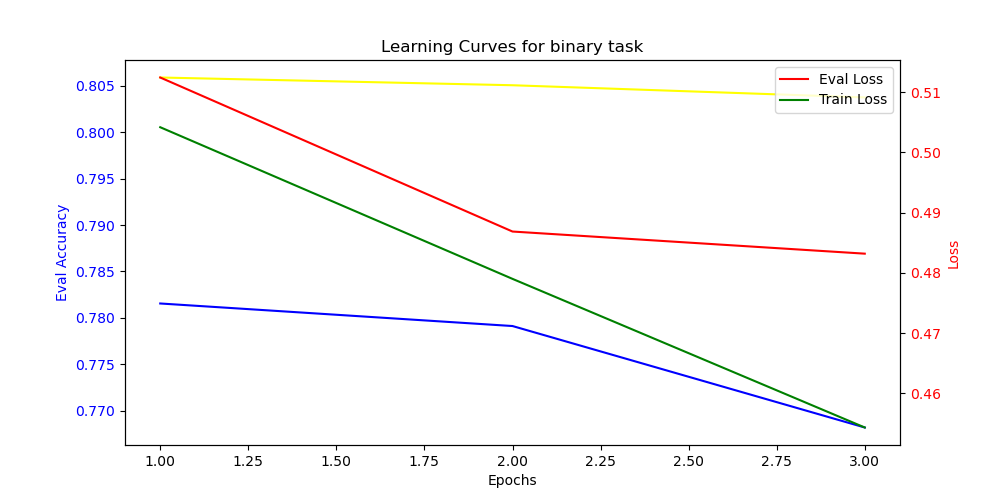
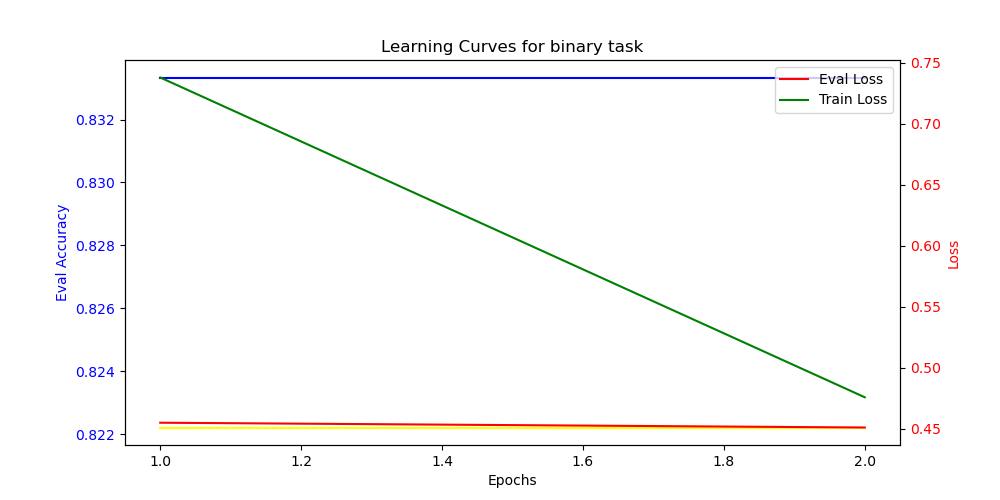
INIT commit for curriculum learning

diff --git a/src/bert_model/fine_tune_protBERT.py b/src/bert_model/fine_tune_protBERT.py
@@ -9,8 +9,9 @@ import logging
 from src.bert_model.transformer_metrics import binary_metrics, mlm_metrics
 from src.bert_model.PeptideBERTClasses.PeptideTrainer import PeptideTrainer
 from src.bert_model.fine_tune_utils import prepare_datasets, load_training_arguments, test_binary_label_bias
-from src.bert_model.PeptideBERTClasses.PeptideCallbackTrainer import LearningCurveCallback, EarlyStoppingCallback
+from src.bert_model.PeptideBERTClasses.PeptideCallbackTrainer import LearningCurveCallback, EarlyStoppingCallback, CurriculumLearningCallback
 from src.bert_model.PeptideBERTClasses.PeptideBertForBinaryClassification import PeptideBertForBinaryClassification
+from src.bert_model.PeptideBERTClasses.PeptideDataCollator import PeptideCurriculumDataCollator
 
 # this line should be included in the TrainingArguments
 # device = torch.device('cuda') if torch.cuda.is_available() else torch.device('cpu')
@@ -93,8 +94,7 @@ def fine_tune(model_class: str,
     # first.
     elif model_class == 'mlm':
         model = BertForMaskedLM.from_pretrained(training_args.model_path)
-        data_collator = DataCollatorForLanguageModeling(tokenizer=tokenizer, mlm=True,
-                                                        mlm_probability=training_args.mlm_probability)
+        data_collator = PeptideCurriculumDataCollator(tokenizer=tokenizer)
     elif model_class == 'custom':
         raise NotImplementedError("Custom task not implemented yet")
     else:
@@ -116,7 +116,8 @@ def fine_tune(model_class: str,
             # Custom Callback Class for plotting learning curves. STILL IN WORK
             LearningCurveCallback(args=training_args, task_name=model_class),
             # Custom Callback Class for early stopping.
-            EarlyStoppingCallback()
+            EarlyStoppingCallback(),
+            CurriculumLearningCallback()
         ]
     )
 
@@ -153,7 +154,7 @@ def fine_tune(model_class: str,
 
 
 if __name__ == '__main__':
-    fine_tune(model_class='binary',  # Set to 'binary' for binary classification, 'mlm' for masked language modeling
+    fine_tune(model_class='mlm',  # Set to 'binary' for binary classification, 'mlm' for masked language modeling
               config_path='peptideBERT_configs/debug_mlmBERT_config.yaml',  # Path to the config file
               show_encoding=False,  # Set to True if you want to see the encoding of the vocabulary
               )

diff --git a/src/bert_model/PeptideBERTClasses/PeptideCallbackTrainer.py b/src/bert_model/PeptideBERTClasses/PeptideCallbackTrainer.py
@@ -1,7 +1,7 @@
 import os
 import torch
 import evaluate
-from transformers import TrainerCallback, TrainerState, TrainerControl
+from transformers import TrainerCallback, TrainerState, TrainerControl, TrainingArguments
 import matplotlib.pyplot as plt
 from src.bert_model.PeptideBERTClasses.PeptideTrainingArguments import PeptideTrainingArguments
 from src.bert_model.fine_tune_utils import plot_label_abundance, _format_logit_to_label
@@ -52,9 +52,13 @@ class LearningCurveCallback(TrainerCallback):
                 labels_handler.append(labels)
 
         # Compute accuracy
-        epoch_train_accuracy = accuracy.compute(predictions=[item for sublist in predictions_handler for item in sublist],
-                                                references=[item for sublist in labels_handler for item in sublist])
-        self.train_accuracy_metric.append(epoch_train_accuracy['accuracy'])
+        # TODO implement accuarcy for mlm task, since the caption method above only works out for binary. In General, i need to figure out how to capture those metrics properly. This way is a mess
+        try:
+            epoch_train_accuracy = accuracy.compute(predictions=[item for prediction in predictions_handler for item in prediction],
+                                                    references=[item for label in labels_handler for item in label])
+            self.train_accuracy_metric.append(epoch_train_accuracy['accuracy'])
+        except:
+            self.train_accuracy_metric.append(0)
 
 
 
@@ -188,4 +192,6 @@ class CurriculumLearningCallback(TrainerCallback):
     Idea so far, make a callback "on_evaluate" or "on_epoch_begin" that changes the training data for the next curriculum step
     A curriculum step is not defined for me so far. It could be something like every 10 Epochs. Need to do some more research on this.
     """
-    ...
+    def on_epoch_end(self, args: TrainingArguments, state: TrainerState, control: TrainerControl, **kwargs):
+        print(1)
+        kwargs['train_dataloader'].base_dataloader.collate_fn.data_collator.update_probability()

diff --git a/src/bert_model/fine_tune_utils.py b/src/bert_model/fine_tune_utils.py
@@ -40,7 +40,7 @@ def prepare_datasets(binary_or_mlm: str,
     """
     # Load the data
     df = pd.read_csv(train_file, sep=';')
-    df = df.sample(frac=1)[:200] if cut_df_for_faster_debug else df
+    df = df.sample(frac=1)[:15] if cut_df_for_faster_debug else df
     # Get unique sequence id for train/test split. We create our split data with the IDs to avoid data Leakage
     if ignore_leakage:
         df_to_split = df
@@ -64,7 +64,7 @@ def prepare_datasets(binary_or_mlm: str,
     label_data_val = val_sequences['label'].values if binary_or_mlm == 'binary' else None
     label_data_test = test_sequences['label'].values if binary_or_mlm == 'binary' else None
 
-    # Load the tokenizer
+    # Load the tokenizer # TODO do i need to make my own tokenizer?
     tokenizer = BertTokenizer.from_pretrained('Rostlab/prot_bert_bfd', clean_up_tokenization_spaces=True)
 
     train_dataset = PeptideDataset(peptides=train_sequences['sequence'], tokenizer=tokenizer, labels=label_data_train,

diff --git a/README.md b/README.md
@@ -6,8 +6,8 @@
 - The Idea is to first fine tune the BERT-Transformer for Peptides Tasks with MLM, afterward the model should be use-able for other downstream tasks. This Project focuses on the binary classification of toxicity of peptides for Human Blood Cells.
 
 ### To-Do
-- [ ] Think of cool Project Name
-- [ ] Paths could be more dynamic...
+- [ ] Weighted Class labels still needed?
+- [ ] Do i need any special metric for rising the masking percentage of the data collator?
 
 
 
